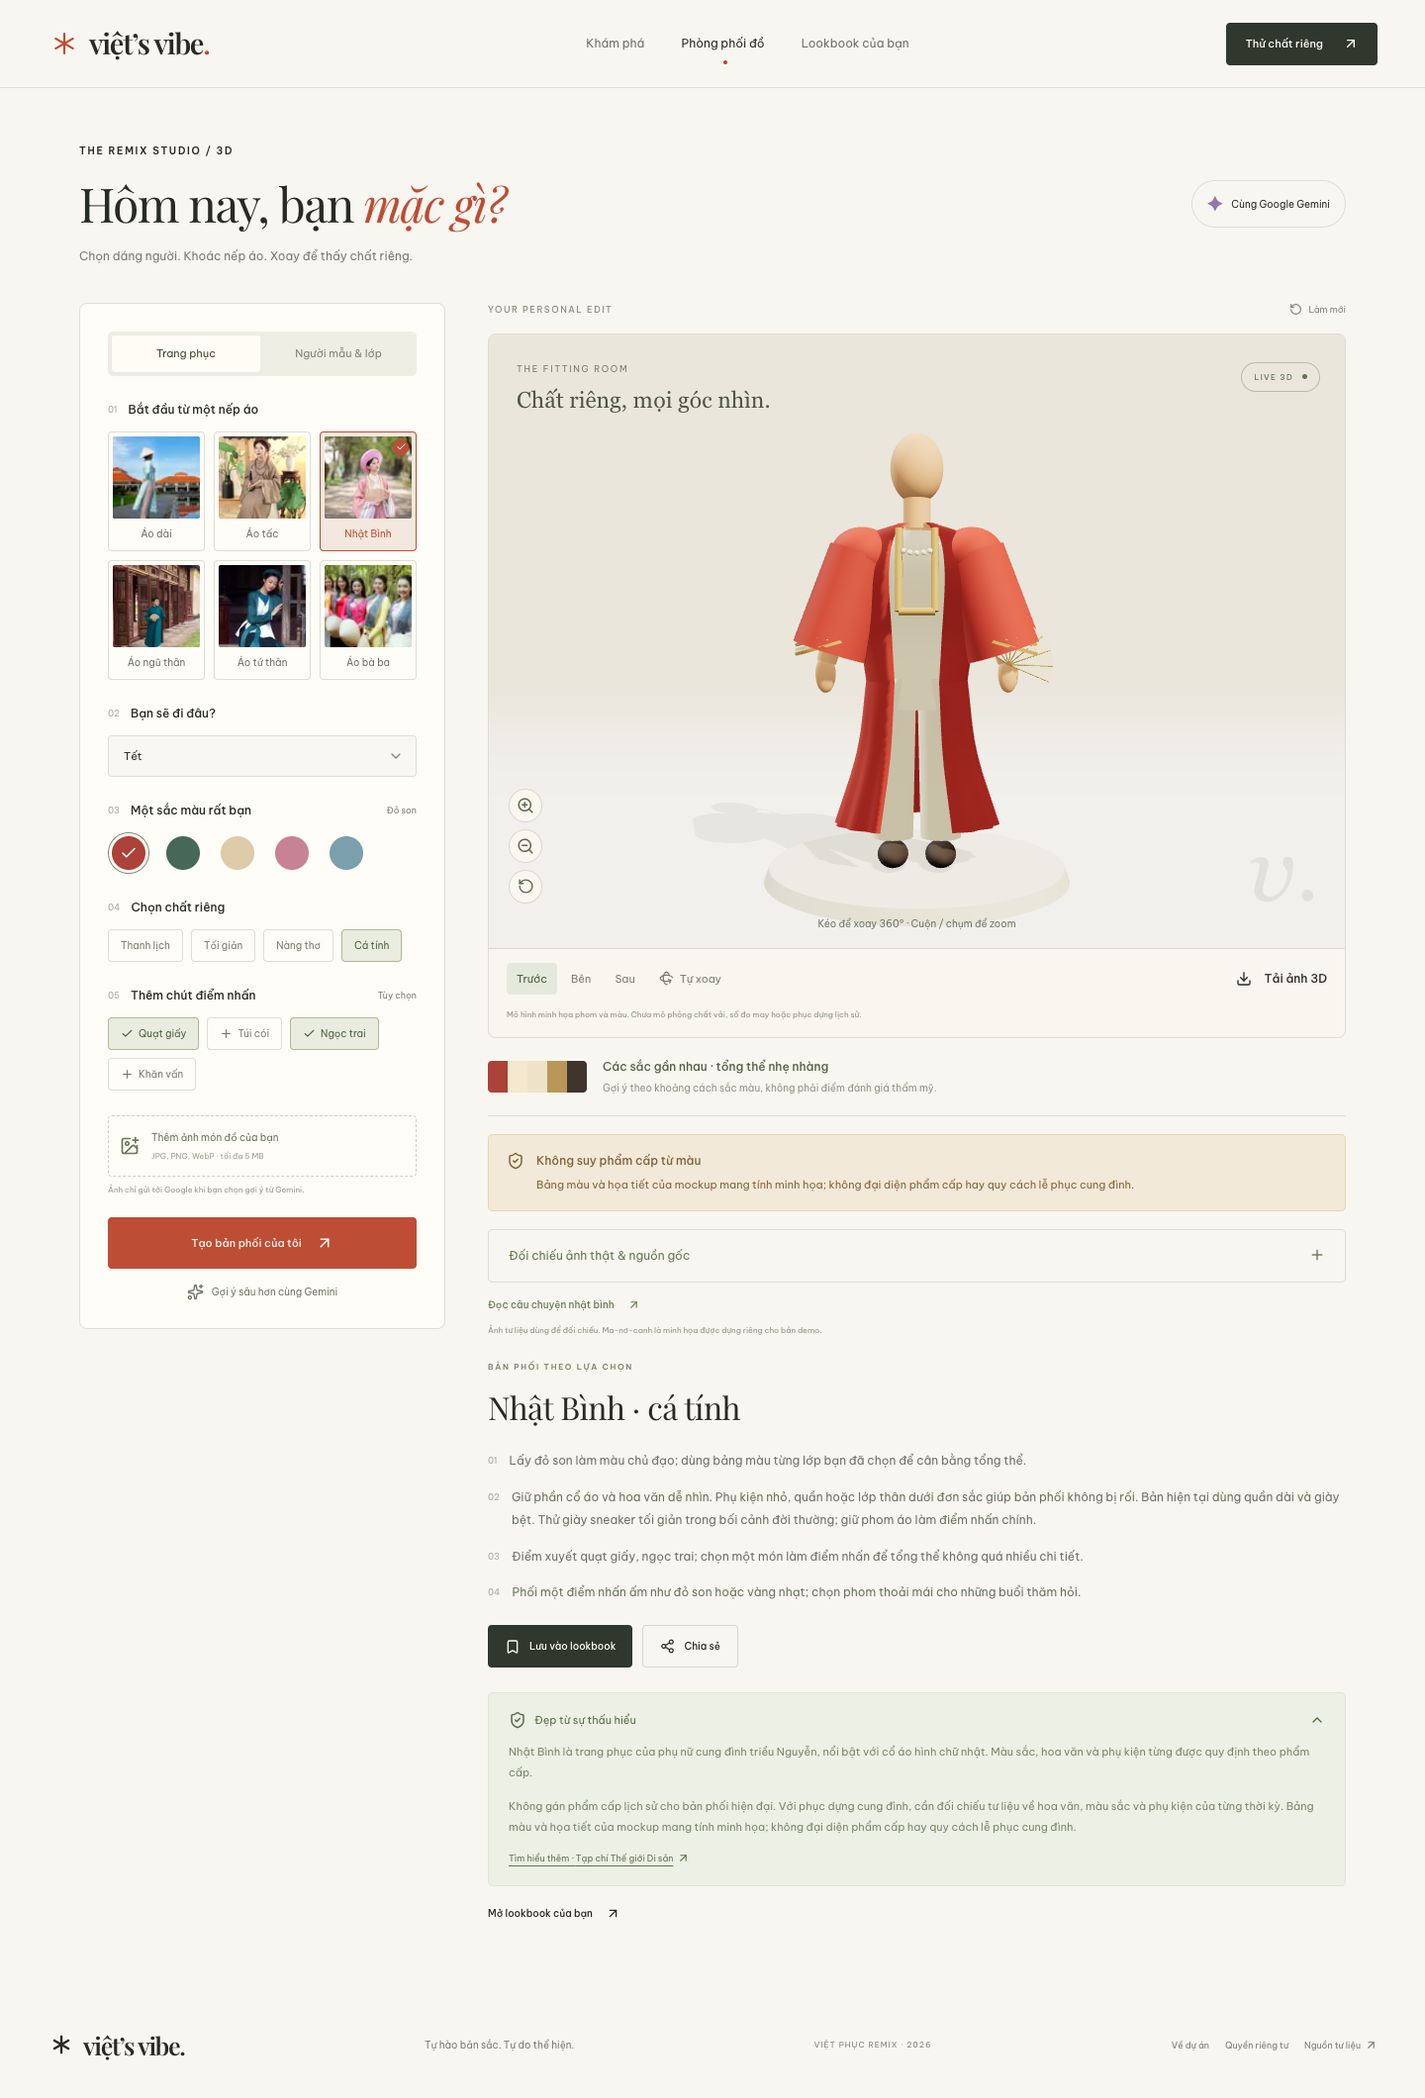
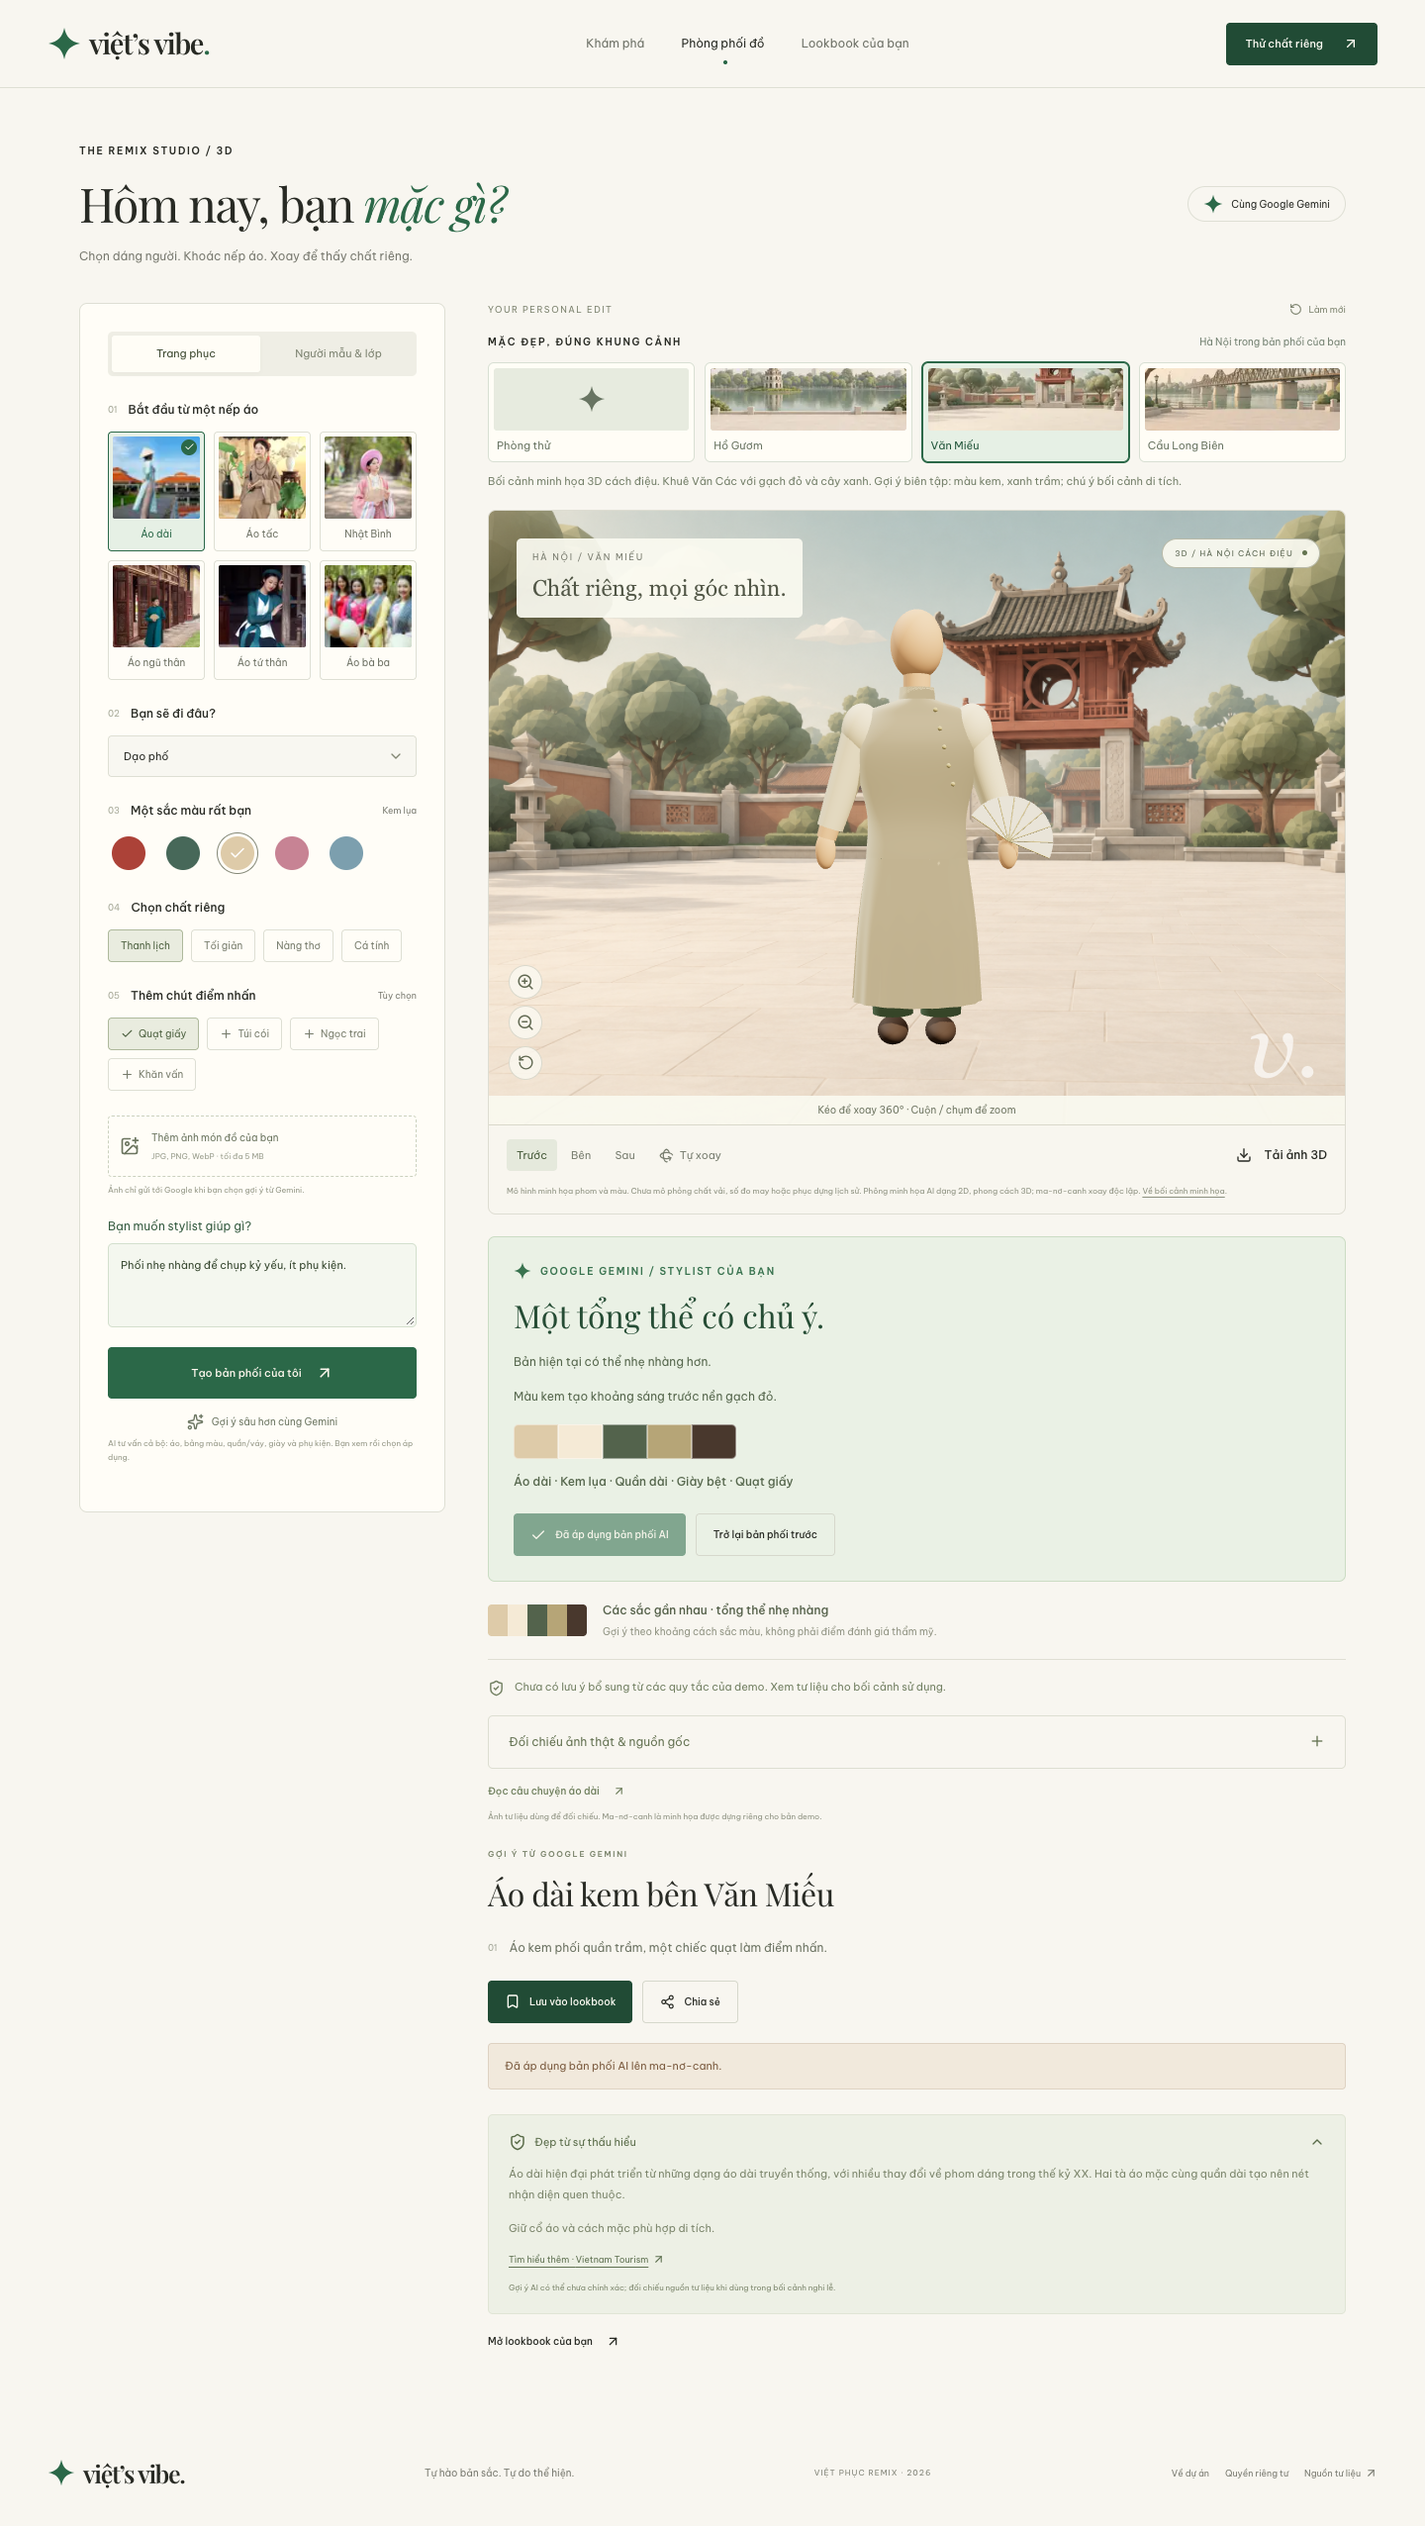
docs: document backdrop architecture and testing

diff --git a/viets-vibe/docs/BACKDROP-PROMPTS.md b/viets-vibe/docs/BACKDROP-PROMPTS.md
@@ -1,0 +1,17 @@
+# Phông minh họa Hà Nội
+
+Ba PNG trong `public/images/hanoi-*-illustration.png` được tạo bằng công cụ imagegen tích hợp. Đây là phông raster mang phong cách 3D, không phải môi trường 3D hoặc tư liệu phục dựng. Các ảnh chụp cũ được ghi nguồn riêng tại trang credits để đối chiếu những thumbnail đã lưu trước khi thay phông.
+
+## Prompt tạo ảnh
+
+### ho-guom
+
+Use case: stylized-concept. Asset type: landscape background plate for a 3D Vietnamese fashion avatar fitting room, 1536x1024 landscape. Create an original premium minimalist low-poly 3D clay-render environment, matching a simple faceted cream mannequin. Soft ambient occlusion, matte surfaces, rounded geometric trees, gentle daylight from upper left, refined muted sage green, warm ivory, sandstone palette. Eye-level camera, straight verticals, very subtle perspective, horizon near middle. Foreground lower 45% is a broad empty light cream stone plaza for compositing a full-body mannequin, with no foreground obstacles and no cast shadow of an absent person. Landmark architecture in middle distance, readable above and to the sides of the empty center. Keep central area calm. Environment fills entire frame, no floating island, no enclosing border. Simplified architectural interpretation, not historical reconstruction. NO people, mannequins, clothing, vehicles, letters, text, logos, watermarks, UI, photographs, grunge or photorealistic textures. Scene: Hanoi Ho Guom lake and Turtle Tower. A small weathered ivory three-storey Turtle Tower on a grassy island across a quiet jade lake, offset slightly left of center. Recognizable stacked arched openings and small dark roof. Soft rounded tree canopy on far shoreline; a little framing foliage at outer edges only. Empty pale stone lakeside promenade across the entire foreground. Elegant, airy, peaceful and clearly computer-rendered.
+
+### van-mieu
+
+Use case: stylized-concept. Asset type: landscape background plate for a 3D Vietnamese fashion avatar fitting room, 1536x1024 landscape. Create an original premium minimalist low-poly 3D clay-render environment, matching a simple faceted cream mannequin. Soft ambient occlusion, matte surfaces, rounded geometric trees, gentle daylight from upper left, refined muted sage green, warm ivory, sandstone palette. Eye-level camera, straight verticals, very subtle perspective, horizon near middle. Foreground lower 45% is a broad empty light cream stone plaza for compositing a full-body mannequin, with no foreground obstacles and no cast shadow of an absent person. Landmark architecture in middle distance, readable above and to the sides of the empty center. Keep central area calm. Environment fills entire frame, no floating island, no enclosing border. Simplified architectural interpretation, not historical reconstruction. NO people, mannequins, clothing, vehicles, letters, text, logos, watermarks, UI, photographs, grunge or photorealistic textures. Scene: Hanoi Temple of Literature, Khue Van Cac pavilion. Recognizable square vermilion-red timber upper pavilion with circular windows and tiered dark curved tile roof on four pale stone piers. Entire pavilion visible in middle distance slightly right of center, modest scale, not a close-up. Symmetrical low courtyard walls and rounded sage trees at edges. Expansive empty warm ivory courtyard in foreground. Red is soft earthy terracotta, never saturated. Elegant architectural toy-like 3D game environment.
+
+### long-bien
+
+Use case: stylized-concept. Asset type: landscape background plate for a 3D Vietnamese fashion avatar fitting room, 1536x1024 landscape. Create an original premium minimalist low-poly 3D clay-render environment, matching a simple faceted cream mannequin. Soft ambient occlusion, matte surfaces, rounded geometric trees, gentle daylight from upper left, refined muted sage green, warm ivory, sandstone palette. Eye-level camera, straight verticals, very subtle perspective, horizon near middle. Foreground lower 45% is a broad empty light cream stone plaza for compositing a full-body mannequin, with no foreground obstacles and no cast shadow of an absent person. Landmark architecture in middle distance, readable above and to the sides of the empty center. Keep central area calm. Environment fills entire frame, no floating island, no enclosing border. Simplified architectural interpretation, not historical reconstruction. NO people, mannequins, clothing, vehicles, letters, text, logos, watermarks, UI, photographs, grunge or photorealistic textures. Scene: Hanoi Long Bien Bridge viewed from a wide riverside promenade. Recognizable repeating cantilever steel truss spans in muted sage-gray and rusty sand, crossing diagonally through middle distance over calm jade river, with simplified pale masonry piers. Bridge upper silhouette visible across upper middle of image, NOT on the bridge roadway. Empty pale stone riverside plaza across foreground, sparse rounded green foliage on far edges, warm ivory hazy sky. Elegant architectural toy-like 3D game environment.

diff --git a/viets-vibe/docs/ARCHITECTURE.md b/viets-vibe/docs/ARCHITECTURE.md
@@ -1,5 +1,15 @@
 # Kiến trúc
 
+## Stylist theo toàn bộ bản phối
+
+Client gửi lựa chọn áo, bảng màu, các lớp trang phục, phụ kiện, sự kiện, `goal` (tối đa 400 ký tự) và ID phông nền. Dáng người và sắc da không gửi trong phần `layers`. Google nhận mô tả biên tập của địa danh, không nhận ảnh phông hoặc screenshot canvas. Ảnh món đồ chỉ gửi nếu người dùng tải ảnh lên và chủ động gọi Gemini.
+
+Phản hồi giữ các trường gợi ý cũ và thêm `nhận_xét`, `lý_do`, `bản_phối`. `lib/stylist.ts` kiểm tra danh mục áo/màu/phụ kiện, màu hex và kiểu lớp đồ trước khi API trả về hoặc client áp dụng. Người dùng bấm áp dụng mới đổi canvas; có hoàn tác. Bản lưu trước khi áp dụng không gắn lời mô tả của bộ AI vào bộ đang mặc. Lỗi từ Google được phân loại và trả thông báo đã biên tập, không chuyển nguyên lỗi nhà cung cấp cho client.
+
+## Phông Hà Nội
+
+`lib/backdrops.ts` quản lý ba phông minh họa AI dạng PNG, phong cách 3D cách điệu; dữ liệu ảnh chụp cũ giữ riêng trong `legacyPhotoBackdrops` để ghi nguồn thumbnail cũ. Texture nền cắt khung theo tỉ lệ canvas, không quay cùng camera. Đây là phông 2D để hình dung phối màu, không phải không gian địa danh 3D. Khi thay phông, texture cũ được giải phóng; lỗi tải có thông báo và khóa xuất ảnh tới khi chọn được phông hợp lệ. ID phông được giữ trong URL/lookbook, ảnh chụp canvas đã có nền. PNG ghi rõ phông minh họa AI; thumbnail dẫn tới thông tin hình ảnh tại trang credits.
+
 ## Luồng trải nghiệm
 
 ```mermaid
@@ -47,12 +57,28 @@ Response 200:
     "tên_trang_phục": "Áo ngũ thân xanh ngọc",
     "nguồn_gốc": "Tóm tắt tham khảo",
     "gợi_ý_phối": ["Một gợi ý cụ thể"],
-    "cảnh_báo_văn_hóa": "Lưu ý theo bối cảnh"
+    "cảnh_báo_văn_hóa": "Lưu ý theo bối cảnh",
+    "nhận_xét": "Nhận xét toàn bộ lựa chọn hiện tại",
+    "lý_do": "Giải thích màu và phụ kiện theo sự kiện, phông nền",
+    "bản_phối": {
+      "garment": "ngu-than",
+      "color": "Ngọc bích",
+      "accessories": ["Quạt giấy"],
+      "layers": {
+        "inner": "#f4e8ce",
+        "bottom": "#eee2c9",
+        "accent": "#b99857",
+        "shoes": "#3f342e",
+        "bottomType": "trousers",
+        "footwear": "flats",
+        "collar": true
+      }
+    }
   }
 }
 ```
 
-Lỗi trả `{ "error": "Thông báo tiếng Việt" }`: 400 dữ liệu không hợp lệ, 413 ảnh quá lớn, 415 định dạng ảnh không hỗ trợ, 503 thiếu key; lỗi nhà cung cấp hiện được gom thành 500. Không trả API key hoặc lỗi nội bộ trực tiếp cho client. Server kiểm tra schema phản hồi trước khi trả về.
+Lỗi trả `{ "error": "Thông báo tiếng Việt" }`: 400 dữ liệu không hợp lệ, 413 ảnh quá lớn, 415 định dạng ảnh không hỗ trợ, 503 thiếu key hoặc Google đang bận, 429 quota, 504 timeout, 502 lỗi key/quyền/model hoặc phản hồi nhà cung cấp không hợp lệ. Thông báo phân biệt từng lỗi cấu hình nhưng không trả API key hoặc lỗi nội bộ trực tiếp cho client. Server kiểm tra schema phản hồi trước khi trả về.
 
 ## Dữ liệu văn hóa
 

diff --git a/viets-vibe/docs/TESTING.md b/viets-vibe/docs/TESTING.md
@@ -2,9 +2,15 @@
 
 ## Kết quả kiểm tra gần nhất
 
-Ngày 19/09/2026, trên môi trường macOS và Chrome: `npm run check`, `npm run format:check`, production build và **13/13 ca E2E** đều qua. Đã xem ảnh chụp desktop/mobile của thư viện, trang chi tiết và studio 3D; kiểm tra cả mặt trước/mặt sau của sáu phom. Các ca mới kiểm tra đổi dáng/sắc da/lớp đồ, cảnh báo, xoay, xuất PNG, thumbnail và khôi phục lookbook, URL sai cấu hình và WebGL không khả dụng. Gemini thật, Docker và workflow CI trên GitHub chưa được chạy xác nhận.
+Ngày 19/09/2026, trên môi trường macOS và Chrome: production build và **15/15 ca E2E** đều qua. Đã xem ảnh chụp desktop/mobile của thư viện, trang chi tiết và studio 3D; kiểm tra cả mặt trước/mặt sau của sáu phom. Các ca kiểm tra đổi dáng/sắc da/lớp đồ, cảnh báo, xoay, xuất PNG, thumbnail và khôi phục lookbook, URL sai cấu hình và WebGL không khả dụng.
+
+Hai ca mới kiểm tra ba phông Hà Nội, lưu/khôi phục phông, áp dụng/hoàn tác bản phối AI, lỗi tải phông và phản hồi AI sai schema. Đã gọi API ứng dụng với Google thật bằng `gemini-flash-latest`: HTTP 200, có nhận xét, lý do theo bối cảnh Văn Miếu và cấu hình đầy đủ để áp dụng. Chưa kiểm tra upload ảnh với Google thật, Docker hoặc workflow CI trên GitHub.
 
 ## Tự động
+
+Để bắt lỗi cuộn xuất hiện sau khi route dev tải xong, chạy `PLAYWRIGHT_DEV=1 npm run test:e2e -- --grep 'page links open'`. Ca này bật animation bình thường và theo dõi vị trí cuộn thêm 1,5 giây sau chuyển trang trên desktop/mobile. `data-scroll-behavior="smooth"` trên `html` cho phép Next.js tạm tắt cuộn mượt trong chuyển route; thiếu thuộc tính này đã tái hiện cuộn muộn hơn 1.100px trên dev dù production qua.
+
+Sau khi thay phông ảnh bằng minh họa AI phong cách 3D: production build và lint qua; chạy lại hai ca `Hanoi backdrops` và `broken backdrop` đều qua. Đã xem lại ảnh desktop/mobile với phông mới, cập nhật ảnh demo trong README.
 
 ```bash
 npm ci

diff --git a/viets-vibe/docs/CONTENT.md b/viets-vibe/docs/CONTENT.md
@@ -1,5 +1,11 @@
 # Nội dung và hình ảnh
 
+## Phông nền Hà Nội
+
+Phông hiện tại trong `public/images/hanoi-*-illustration.png` là minh họa tạo bằng AI theo phong cách 3D cách điệu. Đây là raster 2D, kiến trúc được giản lược, không phải ảnh thực địa hay tài sản phục dựng. Canvas, PNG tải xuống và `/credits` ghi rõ tính chất minh họa. Xem bộ prompt trong [BACKDROP-PROMPTS.md](BACKDROP-PROMPTS.md).
+
+Các ảnh chụp cũ `public/images/hanoi-*.jpg` được giữ để đối chiếu thumbnail của bản lưu cũ: Wikimedia Commons, CC BY 2.0 (Hồ Gươm: xiquinhosilva; cầu Long Biên: David McKelvey) và CC BY 4.0 (Khuê Văn Các: Sai Gon Dep Lam). URL gốc, tác giả và giấy phép nằm trong `legacyPhotoBackdrops` tại `app/lib/backdrops.ts` và phần lưu trữ ở `/credits`. Giấy phép này không áp dụng cho các phông AI mới hoặc ảnh trang phục khác.
+
 ## Nguồn dữ liệu duy nhất
 
 `app/lib/heritage.ts` chứa nội dung và provenance cho từng trang phục. Các trường `source`/`sourceName` chỉ tư liệu văn hóa; `imageSource`/`imageCredit`/`imageOriginal` chỉ ảnh. `imageNote` phân biệt ảnh đương đại với hiện vật hoặc phục dựng. Trang `/credits` lấy trực tiếp dữ liệu này để hạn chế lệch nguồn.

diff --git a/viets-vibe/docs/DEPLOYMENT.md b/viets-vibe/docs/DEPLOYMENT.md
@@ -13,6 +13,8 @@ npm run start
 
 Build cần mạng tải Google Fonts. Runtime cần HTTPS ra Google để gọi Gemini. Cấu hình `GEMINI_API_KEY` bằng biến môi trường bí mật; `GEMINI_MODEL` tùy chọn. Khởi động lại server khi thay env.
 
+Model mặc định hiện là `gemini-flash-latest`. Trong lần kiểm tra local, `gemini-2.5-flash` trả 404 khi generateContent, trong khi alias Flash trả lời được. Nếu deployment đã đặt model cũ, sửa biến `GEMINI_MODEL` ở Vercel/Render và redeploy; thay `.env.local` không tự cập nhật biến trên hosting. Alias có thể đổi model theo thời gian, nên kiểm tra lại quota và model trước buổi demo. API báo riêng lỗi quyền truy cập, model không khả dụng, quota và timeout; không log key hoặc nội dung ảnh.
+
 Với nền tảng hỗ trợ Next.js: đặt **Root Directory = viets-vibe**, install `npm ci`, build `npm run build`. Không dùng static export vì `/api/style` cần server. Đặt timeout nền tảng đủ cho request Gemini (ứng dụng đặt timeout khoảng 55–60 giây).
 
 ## Docker
